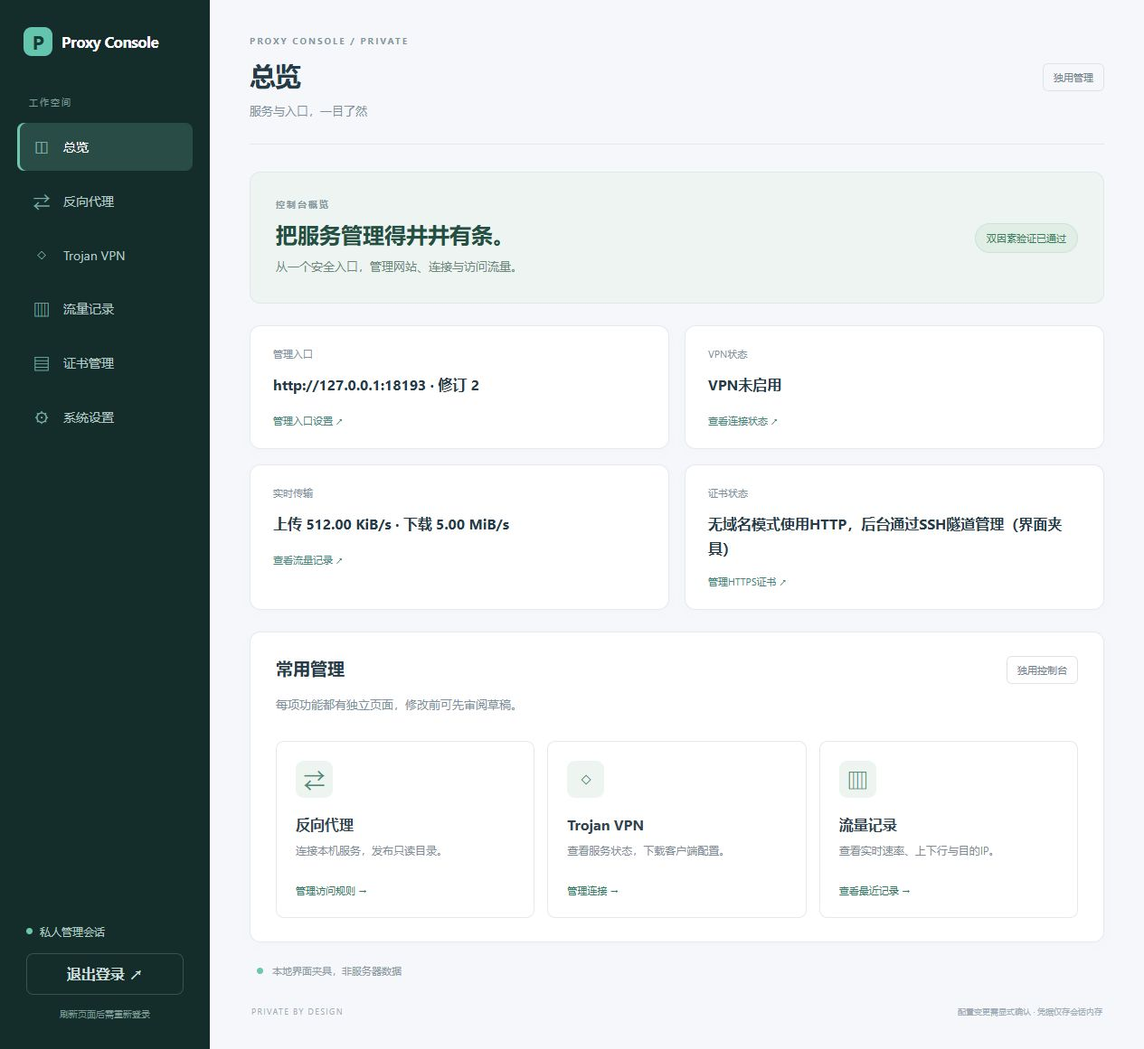
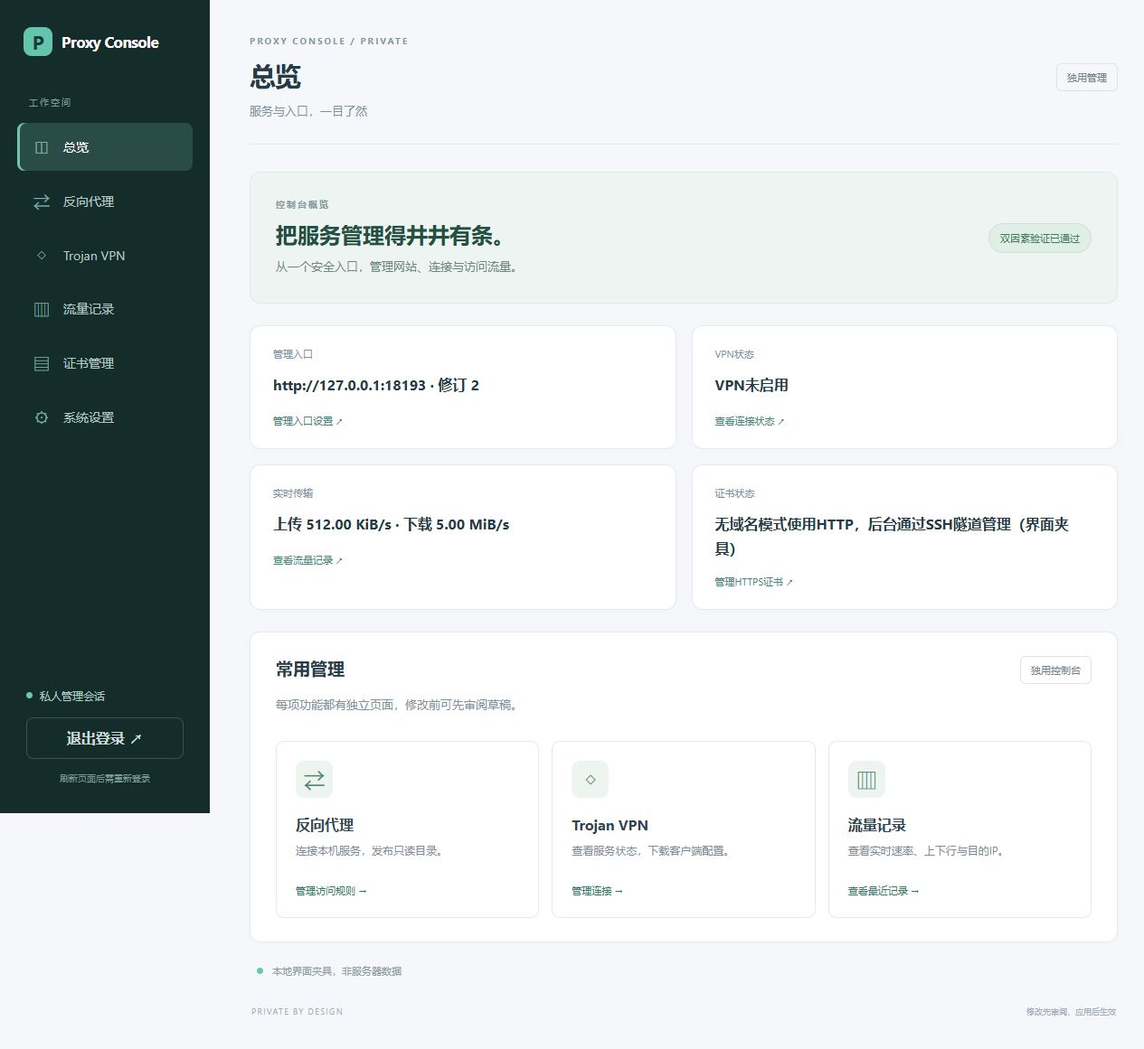
release: record six-page console deployment and refresh candidate bundle metadata

diff --git a/docs/progress.html b/docs/progress.html
@@ -12,7 +12,7 @@
   <h1>开发进展与剩余门槛</h1>
   <nav><a href="index.html">总览</a><a href="plan.html">计划</a></nav>
 </header>
-<main><section><h2>当前：公开固定摘要镜像已上线</h2><p>服务器使用源码2dfb4dc对应的三个公开摘要镜像。干净Ubuntu CI的26项门槛通过，镜像已在空凭据配置下匿名完整拉取；最终默认Compose空卷启动、网页绑定、后台设置、反代/目录、重建保留、持久证书缓存和配置冷还原均通过。<a href="evidence/2026-11-11-candidate-ci-gate.json">CI门槛</a> · <a href="evidence/2026-11-11-public-images.json">镜像清单</a> · <a href="evidence/2026-11-11-public-default-deployment.json">公开镜像默认部署</a>。</p><p>实机80/443已交接，欢迎页、跳转和禁止爬虫通过。所有者在后台切换自动证书，Let’s Encrypt正式HTTP-01签发成功。公开镜像重建后，网站、后台8007与Trojan18443均保留同一可信证书，原账号/路由/设置/VPN口令保留；Google HTTPS为204，错误口令被拒，其他项目进程未变。<a href="evidence/2026-11-11-public-staging.json">最新部署和重建证据</a> · <a href="evidence/2026-11-11-automatic-certificate.json">正式证书证据</a>。</p><figure><img src="evidence/2026-11-11-welcome-live.jpg" alt="已上线的欢迎页，仅显示域名和绿色状态点" style="max-width:100%;width:900px"><figcaption>实际HTTPS欢迎页。</figcaption></figure></section>
+<main><section><h2>当前：六个独立菜单页已上线</h2><p>后台已分为总览、反向代理、Trojan VPN、流量记录、证书管理、系统设置。统一侧栏、状态卡、表格与表单，窄屏显示顶部菜单；页面切换保留草稿，退出清除敏感数据。<a href="admin-ui-design.html">页面方案与截图</a> · <a href="evidence/2026-11-12-admin-ui.json">浏览器正反向记录</a>。</p><p>源码3a13f06通过28项候选门槛后，仅升级control。网关、VPN和其他项目进程未重启，账号、设置和规则保留；公网登录页、资源和鉴权边界通过，真实VPN到Google HTTPS为204。<a href="evidence/2026-11-12-admin-ui-ci-gate.json">完整门槛</a> · <a href="evidence/2026-11-12-admin-ui-deployment.json">线上验证</a>。</p><p class="note">旧长稳记录692次采样、6次HTTP状态异常，已保留失败证据并结束旧进程基线。本次界面改版不表示这些异常已经解决；正式发布前仍需定位并重开完整24小时观察。</p></section><section><h2>此前阶段：首版公开固定摘要镜像</h2><p>服务器使用源码2dfb4dc对应的三个公开摘要镜像。干净Ubuntu CI的26项门槛通过，镜像已在空凭据配置下匿名完整拉取；最终默认Compose空卷启动、网页绑定、后台设置、反代/目录、重建保留、持久证书缓存和配置冷还原均通过。<a href="evidence/2026-11-11-candidate-ci-gate.json">CI门槛</a> · <a href="evidence/2026-11-11-public-images.json">镜像清单</a> · <a href="evidence/2026-11-11-public-default-deployment.json">公开镜像默认部署</a>。</p><p>实机80/443已交接，欢迎页、跳转和禁止爬虫通过。所有者在后台切换自动证书，Let’s Encrypt正式HTTP-01签发成功。公开镜像重建后，网站、后台8007与Trojan18443均保留同一可信证书，原账号/路由/设置/VPN口令保留；Google HTTPS为204，错误口令被拒，其他项目进程未变。<a href="evidence/2026-11-11-public-staging.json">最新部署和重建证据</a> · <a href="evidence/2026-11-11-automatic-certificate.json">正式证书证据</a>。</p><figure><img src="evidence/2026-11-11-welcome-live.jpg" alt="已上线的欢迎页，仅显示域名和绿色状态点" style="max-width:100%;width:900px"><figcaption>实际HTTPS欢迎页。</figcaption></figure></section>
 <section><h2>恢复与故障保护</h2><p>SSH恢复、SQLite一致性备份、空卷冷还原及重绑前旧认证阻断通过正反向和六项定向破坏。控制归档不包含流量库，证书/ACME缓存另行私有保留。迁移时发现旧/data临时盘覆盖持久缓存，已修复；新的回归先证明跨重建保存，再故意换成同UID可写临时盘，必须命中指定持久性断言。<a href="recovery-design.html">恢复边界</a> · <a href="evidence/2026-11-11-recovery.json">恢复证据</a> · <a href="evidence/2026-11-11-cache-persistence.json">缓存回归</a>。</p></section>
 <section><h2>剩余发布门槛</h2><p>当前为候选，尚未合并主分支或创建正式版本标签。<a href="stability.html">24小时只读长稳测试</a>已在北京时间11月11日23:14启动，预计11月12日23:14完成。首轮无失败，完整窗口尚未结束；不能以短测代替。公共证书尚未到续期窗口，真实公共续期待后续到期窗口观察；隔离短期续期已实测。所有者已确认Clash Verge/Clash Mi可访问Google，具体逐设备UDP和客户端版本尚未单独记录。</p><p><a href="operations.html">部署与维护手册</a> · <a href="plan.html">完整开发计划</a> · <a href="traffic-implementation.html">30天流量统计</a>。</p></section>
 <section><h2>阶段历史</h2><p><a href="evidence/2026-11-11-metrics-staging.json">统计阶段部署</a> · <a href="evidence/2026-11-11-standard-handoff.json">标准入口交接</a> · <a href="evidence/2026-11-11-admin-first-core.json">后台设置底座</a> · <a href="evidence/2026-11-11-browser-bootstrap.json">浏览器初始化</a> · <a href="evidence/2026-11-11-vpn-runner.json">执行器生命周期</a>。</p><p>历史证据中的“尚未”仅描述当时状态；当前状态以本页和最新绑定提交的清单为准。</p></section></main>

diff --git a/docs/stability.html b/docs/stability.html
@@ -1,1 +1,1 @@
-<!doctype html><html lang="zh-CN"><head><meta charset="utf-8"><meta name="viewport" content="width=device-width,initial-scale=1"><title>24小时稳定性验收</title><link rel="stylesheet" href="assets/docs.css"></head><body><header><h1>真实时间窗口内验证稳定性</h1><nav><a href="plan.html">发布门槛</a><a href="operations.html">部署与维护</a></nav></header><main><section><h2>本轮已启动，尚未完成</h2><p class="note">北京时间2026-11-11 23:14:39开始，预计2026-11-12 23:14:39完成真实24小时窗口。Linux正反向判定测试、实际短时自检和首轮健康/TLS/VPN正反向均通过。观测器源码绑定87b501f，业务镜像源码绑定2dfb4dc。<a href="evidence/2026-11-11-stability-started.json">启动与早期快照</a>，不能作为完整24小时通过证据。</p><p>当前服务器可通过SSH读取<code>/opt/trojan-proxy-refactor/.active-stability.json</code>，再读取其中output目录的summary.json和samples.jsonl。只有completed和passed均为true才代表完成；进程提前退出且摘要仍为false时需排查，不能修改标志当作通过。</p></section><section><h2>范围和时间</h2><p>最终公开摘要镜像重建验收后，在服务器启动一次有截止时间的只读24小时探针。每分钟记录一次健康样本，每小时执行真实Google HTTPS代理正向和错误口令反向检查。诊断请求会计入少量VPN流量。它不更改业务、不重启容器、不发送消息，结束时写出最终结果；不是无限常驻监控或定期提醒。该观测针对已配置域名和启用Trojan的最终模式，初始无域名模式另由默认部署探针验收。</p></section><section><h2>每个样本</h2><p>检查三个容器仍运行、无OOM及意外重启，内核实际UID/能力及no-new-privileges，控制服务健康、后台未认证拒绝，80跳转及robots，443/后台/VPN均为可信且一致的域名证书。记录聚合资源和失败原因，不记录目标IP、口令、验证码、恢复码或原始运行配置。原始观测文件只保存在服务器私有目录。</p></section><section><h2>通过和失败</h2><p>必须达到完整24小时、采样持续、样本全部通过且至少完成首尾和逐小时的真实VPN正反向检查，才能写为通过。容器替换、意外退出、证书/鉴权异常、采样间断或测试进程提前退出都不能算通过。观察期间主动改变配置或升级会使本轮基线失效，应核实后重新开始，不能忽略失败样本补写成功。</p><p>公开CA证书目前尚未进入续期窗口；不得把24小时无续期称为公共续期实测。短期隔离证书的真实签发和续期已由独立门槛验证，正式域名签发、三入口切换和重建保留另有实机证据。</p></section></main></body></html>
+<!doctype html><html lang="zh-CN"><head><meta charset="utf-8"><meta name="viewport" content="width=device-width,initial-scale=1"><title>24小时稳定性验收</title><link rel="stylesheet" href="assets/docs.css"></head><body><header><h1>真实时间窗口内验证稳定性</h1><nav><a href="plan.html">发布门槛</a><a href="operations.html">部署与维护</a></nav></header><main><section><h2>本轮未通过，异常证据已保留</h2><p class="note">北京时间11月11日23:14启动的旧观测，升级后台前记录692次采样、6次HTTP状态码异常，不能验收通过。11月12日仅升级control界面时结束了原进程基线，完整原始样本保留在服务器私有目录。此前预计11月12日23:14完成的时间不再适用于一次合格验收。</p><p>需要先补齐异常定位并处理，再按新镜像基线重新开始完整24小时观察。<a href="evidence/2026-11-12-admin-ui-deployment.json">旧基线与界面升级记录</a>。不要把completed或passed手工改成true；短期恢复也不能抹掉已有失败。</p></section><section><h2>范围和时间</h2><p>最终公开摘要镜像重建验收后，在服务器启动一次有截止时间的只读24小时探针。每分钟记录一次健康样本，每小时执行真实Google HTTPS代理正向和错误口令反向检查。诊断请求会计入少量VPN流量。它不更改业务、不重启容器、不发送消息，结束时写出最终结果；不是无限常驻监控或定期提醒。该观测针对已配置域名和启用Trojan的最终模式，初始无域名模式另由默认部署探针验收。</p></section><section><h2>每个样本</h2><p>检查三个容器仍运行、无OOM及意外重启，内核实际UID/能力及no-new-privileges，控制服务健康、后台未认证拒绝，80跳转及robots，443/后台/VPN均为可信且一致的域名证书。记录聚合资源和失败原因，不记录目标IP、口令、验证码、恢复码或原始运行配置。原始观测文件只保存在服务器私有目录。</p></section><section><h2>通过和失败</h2><p>必须达到完整24小时、采样持续、样本全部通过且至少完成首尾和逐小时的真实VPN正反向检查，才能写为通过。容器替换、意外退出、证书/鉴权异常、采样间断或测试进程提前退出都不能算通过。观察期间主动改变配置或升级会使本轮基线失效，应核实后重新开始，不能忽略失败样本补写成功。</p><p>公开CA证书目前尚未进入续期窗口；不得把24小时无续期称为公共续期实测。短期隔离证书的真实签发和续期已由独立门槛验证，正式域名签发、三入口切换和重建保留另有实机证据。</p></section></main></body></html>

diff --git a/docs/admin-ui-design.html b/docs/admin-ui-design.html
@@ -1,2 +1,2 @@
-<!doctype html><html lang="zh-CN"><head><meta charset="utf-8"><meta name="viewport" content="width=device-width,initial-scale=1"><title>后台菜单与页面改版</title><link rel="stylesheet" href="assets/docs.css"></head><body><header><h1>从长表单改为分区控制台</h1><nav><a href="plan.html">开发计划</a><a href="progress.html">进度</a></nav></header><main><section><h2>页面结构</h2><p>采用固定侧栏、页面标题和独立内容区；移动端改为顶部可换行菜单。六个菜单为：总览、反向代理、Trojan VPN、流量记录、证书管理、系统设置。总览只显示聚合状态和快捷入口，目的IP仅在流量页显示。</p></section><section><h2>导航与数据边界</h2><p>使用同一应用内的hash页面路由，支持前进/后退与深链接，不在URL中放凭据。菜单切换保留未提交草稿和内存会话，不触发配置写入或重复登录。刷新仍按原安全模型重新登录；退出/会话失效隐藏全部功能并清除敏感显示。证书导入与系统设置共享域名草稿，明确提示跨页面的操作顺序。</p></section><section><h2>实施和验收</h2><ol><li>保留现有表单ID和业务模块，重组静态结构，新增独立导航模块；统一间距、表格、按钮、状态卡及登录页样式。</li><li>验证全部菜单、浏览器前进后退、非法hash回总览、菜单切换保留草稿、退出不可访问功能页；验证未勾选确认仍拒绝危险操作。</li><li>使用合成数据检查桌面和窄屏布局、键盘焦点与无横向溢出；记录截图及Go嵌入资源检查。</li></ol><p>本地六页导航、草稿保留、退出隔离、危险操作确认及窄屏布局已验证。候选门槛通过后仅升级control，保留网关与VPN进程。原长稳已有6次HTTP状态异常，部署前保存失败证据并结束失效的旧基线；本改版不把这些异常标记解决，后续需定位并重开完整观察。</p></section><section><h2>界面验证</h2><p><a href="evidence/2026-11-12-admin-ui.json">正反向界面验收记录</a>，截图使用合成数据。</p><figure><img src="evidence/2026-11-12-admin-desktop.jpg" alt="新版侧栏与总览" style="max-width:100%"></figure><figure><img src="evidence/2026-11-12-admin-mobile.jpg" alt="窄屏流量页，使用合成数据" style="max-width:390px;width:100%"></figure></section></main></body></html>
+<!doctype html><html lang="zh-CN"><head><meta charset="utf-8"><meta name="viewport" content="width=device-width,initial-scale=1"><title>后台菜单与页面改版</title><link rel="stylesheet" href="assets/docs.css"></head><body><header><h1>从长表单改为分区控制台</h1><nav><a href="plan.html">开发计划</a><a href="progress.html">进度</a></nav></header><main><section><h2>页面结构</h2><p>采用固定侧栏、页面标题和独立内容区；移动端改为顶部可换行菜单。六个菜单为：总览、反向代理、Trojan VPN、流量记录、证书管理、系统设置。总览只显示聚合状态和快捷入口，目的IP仅在流量页显示。</p></section><section><h2>导航与数据边界</h2><p>使用同一应用内的hash页面路由，支持前进/后退与深链接，不在URL中放凭据。菜单切换保留未提交草稿和内存会话，不触发配置写入或重复登录。刷新仍按原安全模型重新登录；退出/会话失效隐藏全部功能并清除敏感显示。证书导入与系统设置共享域名草稿，明确提示跨页面的操作顺序。</p></section><section><h2>实施和验收</h2><ol><li>保留现有表单ID和业务模块，重组静态结构，新增独立导航模块；统一间距、表格、按钮、状态卡及登录页样式。</li><li>验证全部菜单、浏览器前进后退、非法hash回总览、菜单切换保留草稿、退出不可访问功能页；验证未勾选确认仍拒绝危险操作。</li><li>使用合成数据检查桌面和窄屏布局、键盘焦点与无横向溢出；记录截图及Go嵌入资源检查。</li></ol><p>本地六页导航、草稿保留、退出隔离、危险操作确认及窄屏布局已验证。候选门槛通过后仅升级control，保留网关与VPN进程。原长稳已有6次HTTP状态异常，部署前保存失败证据并结束失效的旧基线；本改版不把这些异常标记解决，后续需定位并重开完整观察。</p></section><section><h2>界面验证与上线</h2><p>已通过28项候选门槛并仅升级control；<a href="evidence/2026-11-12-admin-ui-deployment.json">公网与保留状态验证</a>通过。<a href="https://qin-xin.top:8007">打开当前后台</a>，刷新后使用原账号重新登录即可。</p><p><a href="evidence/2026-11-12-admin-ui.json">正反向界面验收记录</a>，截图使用合成数据。</p><figure><img src="evidence/2026-11-12-admin-desktop.jpg" alt="新版侧栏与总览" style="max-width:100%"></figure><figure><img src="evidence/2026-11-12-admin-mobile.jpg" alt="窄屏流量页，使用合成数据" style="max-width:390px;width:100%"></figure></section></main></body></html>
 

diff --git a/docs/index.html b/docs/index.html
@@ -1,6 +1,6 @@
 <!doctype html>
 <html lang="zh-CN"><head><meta charset="utf-8"><meta name="viewport" content="width=device-width,initial-scale=1"><title>Trojan Proxy · 重构设计入口</title><link rel="stylesheet" href="assets/docs.css"></head>
-<body><header><div class="eyebrow">TROJAN PROXY / 重构方案 v0.2</div><h1>一键部署的个人代理与反代管理平台</h1><p class="muted">调研基线：<code>b155d97</code> · 2026-11-11（北京时间） · 状态：后台认证与反代已部署；Trojan与受限网关已并行部署，真实客户端Google已可达；80/443与公共自动证书已上线；公开候选镜像可匿名拉取</p><nav><a href="operations.html">部署与维护手册</a><a href="settings-migration.html">设置迁移与入口切换</a><a href="traffic-implementation.html">30天流量记录</a><a href="admin-first-design.html">后台配置与新增需求设计</a><a href="admin-enrollment.html">首次管理员绑定</a><a href="endpoint-and-recovery.html">后台入口与恢复底座</a><a href="progress.html">开发进展</a><a href="vpn-staging.html">Trojan客户端验收</a><a href="review.html">现状与证据</a><a href="architecture.html">架构与安全设计</a><a href="plan.html">开发计划与验收</a></nav></header>
+<body><header><div class="eyebrow">TROJAN PROXY / 重构方案 v0.2</div><h1>一键部署的个人代理与反代管理平台</h1><p class="muted">调研基线：<code>b155d97</code> · 2026-11-11（北京时间） · 状态：后台认证与反代已部署；Trojan与受限网关已并行部署，真实客户端Google已可达；80/443与公共自动证书已上线；公开候选镜像可匿名拉取</p><nav><a href="admin-ui-design.html">后台菜单与页面改版</a><a href="operations.html">部署与维护手册</a><a href="settings-migration.html">设置迁移与入口切换</a><a href="traffic-implementation.html">30天流量记录</a><a href="admin-first-design.html">后台配置与新增需求设计</a><a href="admin-enrollment.html">首次管理员绑定</a><a href="endpoint-and-recovery.html">后台入口与恢复底座</a><a href="progress.html">开发进展</a><a href="vpn-staging.html">Trojan客户端验收</a><a href="review.html">现状与证据</a><a href="architecture.html">架构与安全设计</a><a href="plan.html">开发计划与验收</a></nav></header>
 <main><section><h2>当前交付范围</h2><p class="note">默认Compose已固定到通过完整CI门槛且可匿名拉取的公开候选镜像。首次启动通过SSH隧道中的网页绑定；域名、证书、后台/VPN端口、反代与受限目录绑定在后台管理。网站80/443、独用后台和Trojan已上线，Let’s Encrypt正式自动签发及公开镜像重建后证书保留通过，30天实际目的IP/流量/网速统计已接入。<a href="operations.html">部署与维护手册</a> · <a href="progress.html">最新验证状态</a>。</p><p>当前仍为候选：<a href="stability.html">24小时真实稳定性窗口</a>未完成前不标记正式发布。默认网页仅显示欢迎语和公共Web状态，robots及noindex统一禁止爬虫；不会显示VPN和内部代理信息。</p></section>
 <section id="decisions"><h2>产品决策记录</h2><p class="note">D1–D5 已由用户在本轮明确确认。D6–D7 是工程建议默认值，仍可在实现前调整；服务器信息已实时核实。</p><div class="table-wrap"><table><thead><tr><th>编号</th><th>决策</th><th>推荐与影响</th><th>状态</th></tr></thead><tbody>
 <tr><td>D1</td><td>无域名 HTTP 与强制跳转的关系</td><td>无域名：80 提供 HTTP、443 保留拒绝业务；有域名且证书就绪：80 跳转 443，ACME 验证除外。无域名后台仅走本机/SSH 隧道。</td><td>已确认</td></tr>

diff --git a/docs/plan.html b/docs/plan.html
@@ -1,7 +1,7 @@
 <!doctype html>
 <html lang="zh-CN"><head><meta charset="utf-8"><meta name="viewport" content="width=device-width,initial-scale=1"><title>开发计划与验收 · Trojan Proxy</title><link rel="stylesheet" href="assets/docs.css"></head><body>
 <header><div class="eyebrow">03 / 分期与验收</div><h1>先证明可行，再逐步交付</h1><p class="muted">范围：Docker 全新部署、单管理员、HTTP/HTTPS 反代、公开目录、Trojan 独立端口。具体工期在 M1 后估计，不用未验证假设承诺上线日期。</p><nav><a href="index.html">总览</a><a href="review.html">现状</a><a href="architecture.html">架构</a></nav></header><main>
-<section><h2>阶段、依赖与退出条件</h2><p class="note">当前：默认Compose、网页绑定、后台设置、SSH重置与配置冷还原已通过隔离演练；三个固定摘要候选镜像可匿名拉取。80/443实机交接、默认欢迎页/爬虫声明、真实公共自动签发与网站/后台/Trojan证书切换均通过。原鉴权、VPN口令和路由保留，其他项目进程未变。30天统计已上线。公开镜像默认部署及重建后真实证书持久性已验收；正式发布仍需至少24小时长稳；具体逐设备UDP/客户端版本尚未单列。<a href="operations.html">候选部署手册</a>。</p><div class="table-wrap"><table><thead><tr><th>阶段</th><th>工作与交付</th><th>退出条件</th></tr></thead><tbody>
+<section><h2>阶段、依赖与退出条件</h2><p class="note">当前：默认Compose、网页绑定、后台设置、SSH重置与配置冷还原已通过隔离演练；三个固定摘要候选镜像可匿名拉取。80/443实机交接、默认欢迎页/爬虫声明、真实公共自动签发与网站/后台/Trojan证书切换均通过。原鉴权、VPN口令和路由保留，其他项目进程未变。30天统计已上线。公开镜像默认部署及重建后真实证书持久性已验收；后台六页改版已上线；旧长稳有6次HTTP状态异常，正式发布仍需定位并重新通过至少24小时长稳；具体逐设备UDP/客户端版本尚未单列。<a href="operations.html">候选部署手册</a>。</p><div class="table-wrap"><table><thead><tr><th>阶段</th><th>工作与交付</th><th>退出条件</th></tr></thead><tbody>
 <tr><td>M0 · 调研与决策</td><td>审计当前代码，记录基线；确认 HTTP 模式、后台安全、VPN 端口、平台。交付本套 HTML 设计。</td><td>主要决策已确认；服务器系统/架构、端口与现有容器已核实；未知项明确列出。</td></tr>
 <tr><td>M1 · 可行性与版本锁定</td><td>P1–P7 探针；确定 Caddy、Go、VPN 引擎版本/摘要，许可证及维护成本。补充设计 ADR 与原始结果。</td><td>所有关键探针通过；失败项有替代方案且已验证，不能跳过证书发布/443 保留交接。</td></tr>
 <tr><td>M2 · 部署与数据底座</td><td>模块目录、配置 schema、SQLite 迁移；构建镜像；默认启动与网页初始化、端口预检、健康检查、停止/诊断；离线秘密文件。</td><td>干净主机最少交互启动；二次执行幂等；80/443 任一被占用则不留半启动实例；重建容器不丢状态。</td></tr>

diff --git a/tools/release/package.py b/tools/release/package.py
@@ -19,8 +19,18 @@ def git(arguments):
 
 if git(['status', '--porcelain']): raise SystemExit('必须先提交源码，再生成绑定干净提交的候选包')
 commit = git(['rev-parse', 'HEAD'])
-registry = json.loads((root / 'docs/evidence/2026-11-11-public-images.json').read_text(encoding='utf-8'))
-gate = json.loads((root / 'docs/evidence/2026-11-11-candidate-ci-gate.json').read_text(encoding='utf-8'))
+pointer = root / 'deploy/release.json'
+proofs = json.loads(pointer.read_text(encoding='utf-8')) if pointer.exists() else {
+    'registry_proof': 'docs/evidence/2026-11-11-public-images.json',
+    'ci_gate': 'docs/evidence/2026-11-11-candidate-ci-gate.json',
+}
+# 只读取仓库内的公开证据，拒绝把本机其他文件作为打包清单输入。
+for key in ['registry_proof', 'ci_gate']:
+    path = Path(proofs[key])
+    if path.is_absolute() or '..' in path.parts or not path.as_posix().startswith('docs/evidence/'):
+        raise SystemExit('发布证据路径必须位于docs/evidence内')
+registry = json.loads((root / proofs['registry_proof']).read_text(encoding='utf-8'))
+gate = json.loads((root / proofs['ci_gate']).read_text(encoding='utf-8'))
 if not registry['passed'] or not registry['complete_anonymous_pull_verified'] or not gate['passed'] or registry['commit'] != gate['commit']:
     raise SystemExit('公开镜像与实际CI门槛不匹配')
 compose = (root / 'deploy/compose.yaml').read_text(encoding='utf-8')
